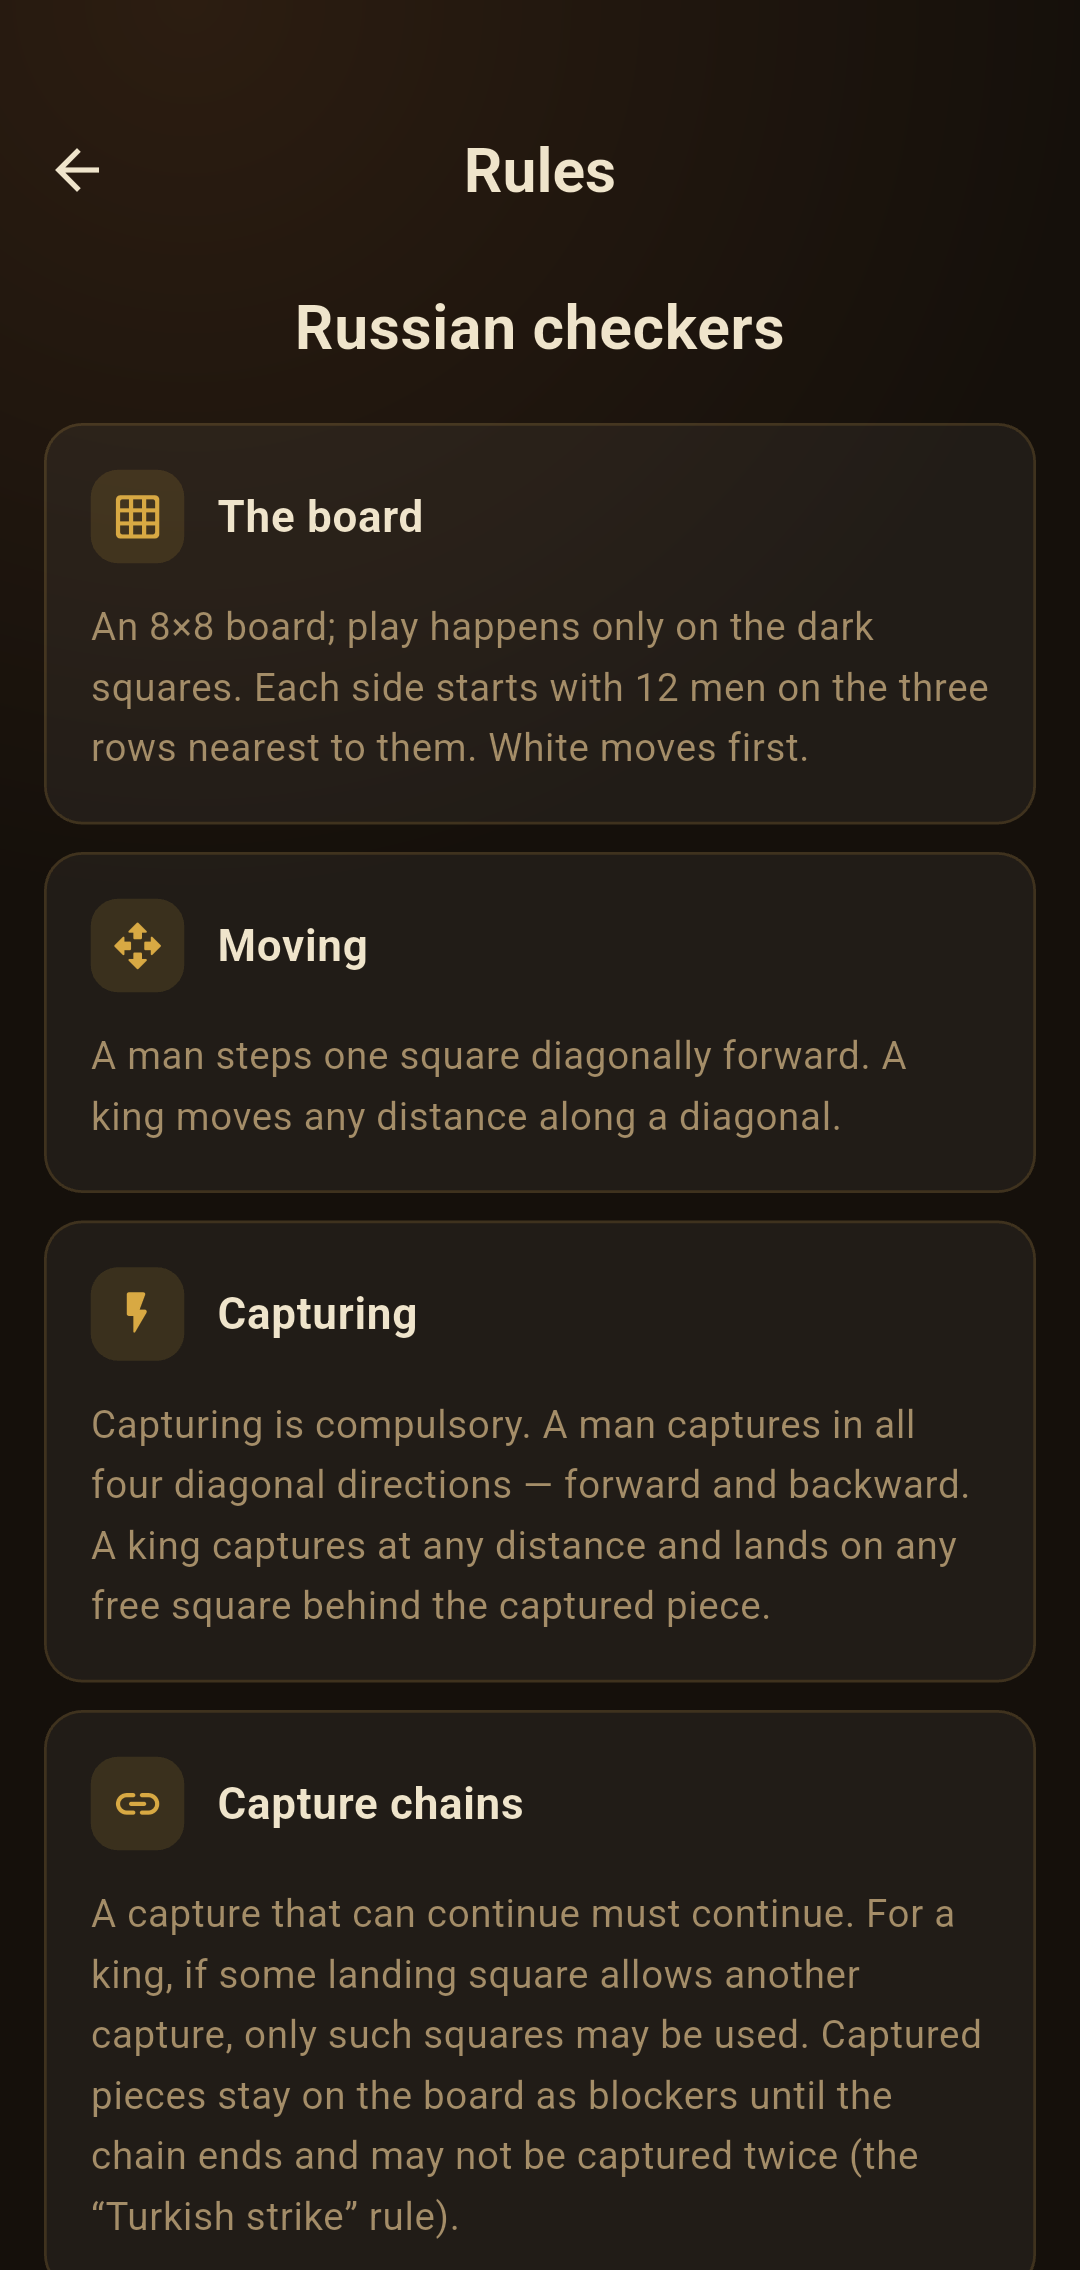
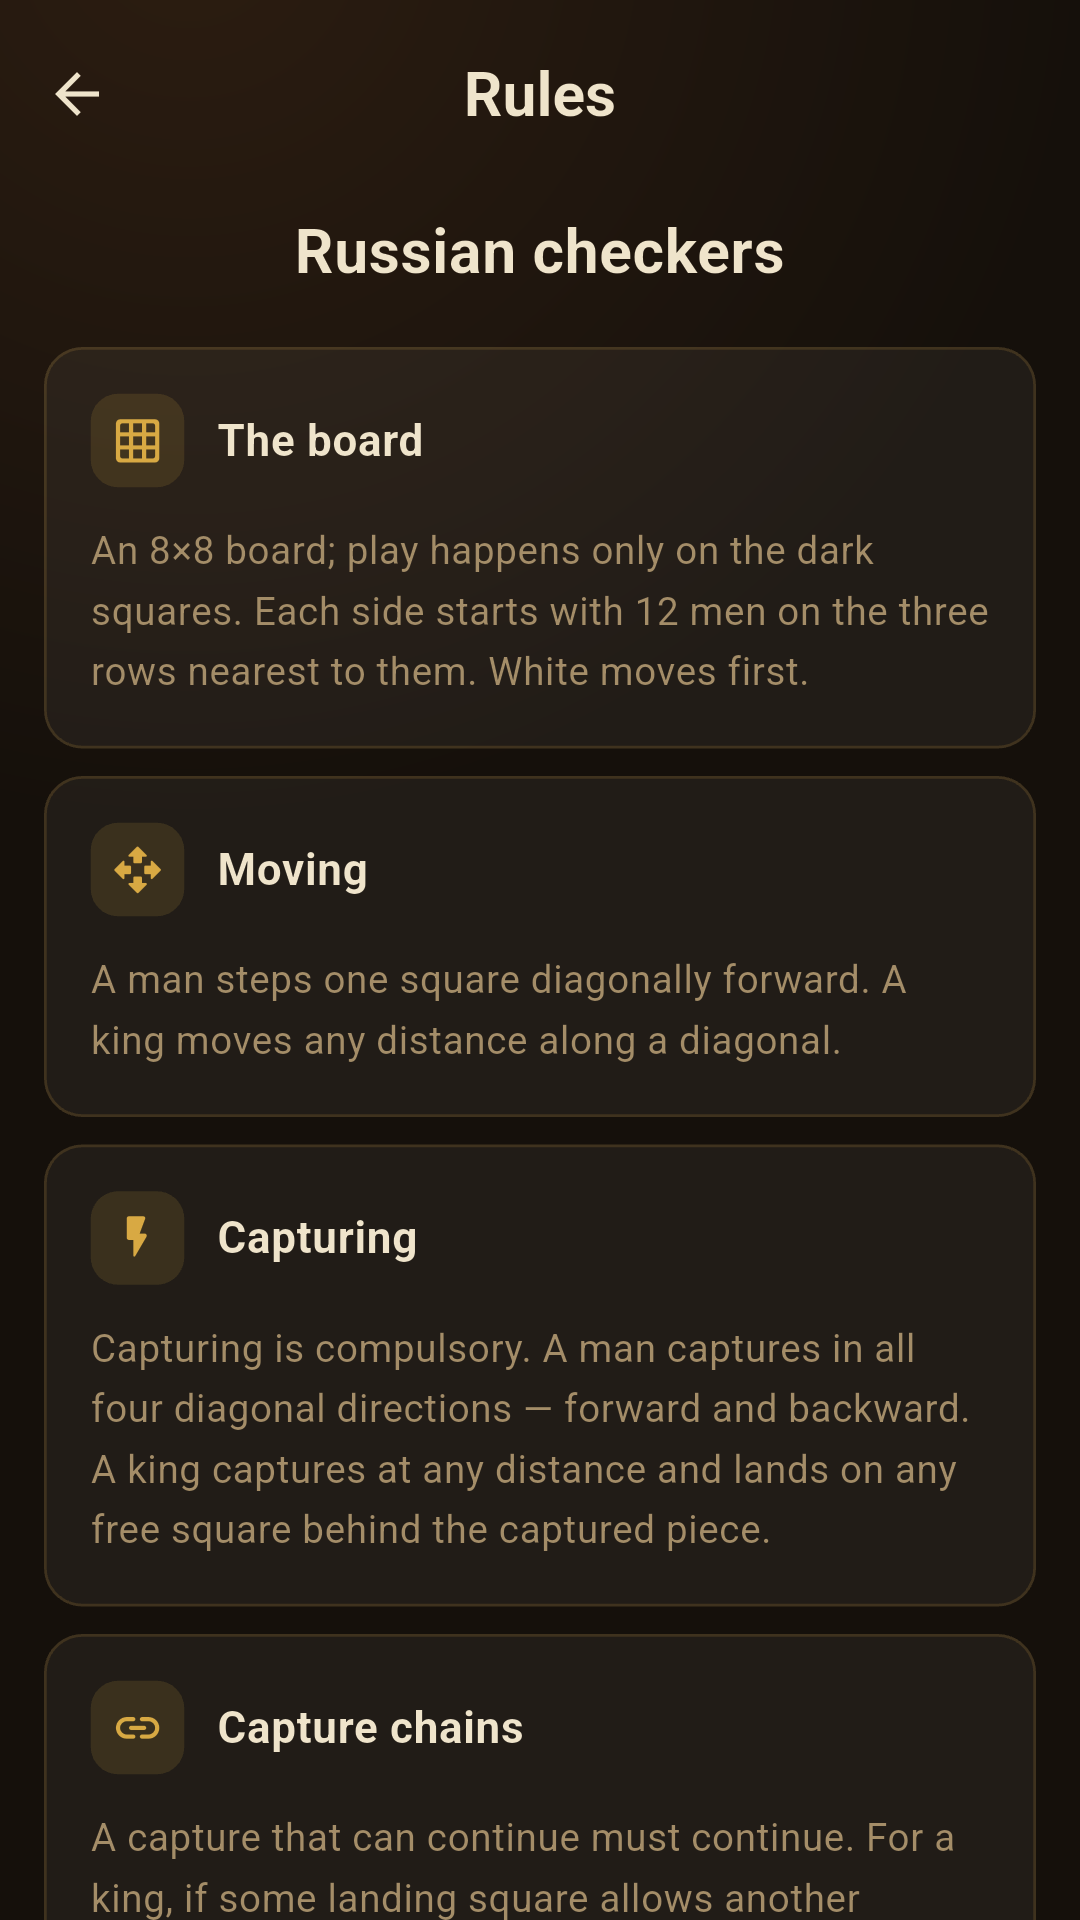
Skrinshotlar Play talab qiladigan 9:16 nisbatiga keltirildi
Google Play do'kon sahifasi uchun skrinshot nisbati 16:9 yoki 9:16
bo'lishini talab qiladi. `flutter drive` ularni qurilma ekrani
o'lchamida olgani uchun 1080x2270 chiqqan edi.

tool/crop_screenshots.py ortiqcha balandlikni kontentdan emas,
chetlardagi bo'sh joydan kesadi; bo'sh joy yetmaganda kesim chizig'ini
elementlar orasidagi eng kam kontrastli qatorga suradi. Natijada
barcha 24 skrinshot 1080x1920.

diff --git a/tool/crop_screenshots.py b/tool/crop_screenshots.py
@@ -1,0 +1,77 @@
+#!/usr/bin/env python3
+"""Skrinshotlarni Play talab qiladigan 9:16 nisbatiga keltirish.
+
+FAQAT ishlab chiqish vositasi. `flutter drive` skrinshotlarni qurilma
+ekrani o'lchamida oladi (masalan 1080x2270), Google Play esa do'kon
+sahifasi uchun qat'iy 16:9 yoki 9:16 talab qiladi.
+
+Skript ortiqcha balandlikni kontentdan emas, chetlardagi bo'sh joydan
+oladi; bo'sh joy yetmasa, kesim chizig'ini elementlar orasidagi eng
+kam kontrastli qatorga suradi.
+
+Ishlatish:
+    python3 tool/crop_screenshots.py
+"""
+
+from __future__ import annotations
+
+from pathlib import Path
+
+import numpy as np
+from PIL import Image
+
+ROOT = Path(__file__).resolve().parents[1]
+SHOTS = ROOT / "docs/play/graphics/screenshots"
+
+TARGET_H = 1920
+MIN_TOP = 40
+CONTENT_THRESHOLD = 6.0
+SNAP_RANGE = 45
+
+
+def crop_916(path: Path) -> Image.Image:
+    img = Image.open(path).convert("RGB")
+    rows = np.asarray(img.convert("L"), dtype=np.float32)
+    height = rows.shape[0]
+    need = height - TARGET_H
+    if need <= 0:
+        return img
+
+    contrast = rows.std(axis=1)
+    content = np.where(contrast > CONTENT_THRESHOLD)[0]
+    top_free = max(0, int(content[0]) - MIN_TOP)
+    bottom_free = height - 1 - int(content[-1])
+
+    spare = top_free + bottom_free - need
+    if spare >= 0:
+        cut_top = round(min(top_free, max(0, top_free - spare / 2)))
+        cut_bottom = need - cut_top
+        if cut_bottom > bottom_free:
+            cut_bottom = bottom_free
+            cut_top = need - cut_bottom
+    else:
+        cut_top = top_free
+        edge = height - (need - cut_top)
+        lo = max(0, edge - SNAP_RANGE)
+        hi = min(height - 1, edge + SNAP_RANGE)
+        edge = int(lo + np.argmin(contrast[lo:hi + 1]))
+        cut_bottom = height - edge
+        cut_top = need - cut_bottom
+        if not 0 <= cut_top <= top_free:
+            cut_top = top_free
+            cut_bottom = need - cut_top
+
+    return img.crop((0, cut_top, img.size[0], height - cut_bottom))
+
+
+def main() -> None:
+    for path in sorted(SHOTS.glob("*/*.png")):
+        out = crop_916(path)
+        if out.size != (1080, TARGET_H):
+            raise SystemExit(f"{path}: {out.size[0]}x{out.size[1]}")
+        out.save(path, optimize=True)
+        print(f"{path.relative_to(ROOT)}  {out.size[0]}x{out.size[1]}")
+
+
+if __name__ == "__main__":
+    main()

diff --git a/docs/play/README.md b/docs/play/README.md
@@ -106,13 +106,19 @@ Grafikalar:
 |---|---|---|
 | Ilova ikonkasi | `graphics/play_icon_512.png` | 512×512 PNG ✔ |
 | Feature graphic | `graphics/play_feature_1024x500.png` | 1024×500 PNG ✔ |
-| Telefon skrinshotlari | `graphics/screenshots/<til>/` | 1080×2270, 5 ta ✔ |
+| Telefon skrinshotlari | `graphics/screenshots/<til>/` | 1080×1920 (9:16), 6 ta ✔ |
 
 Skrinshotlar har til uchun alohida (`uz/`, `ru/`, `en/`) — Play Console'da
 mos tilga yuklang. Minimal 2 ta kerak, bizda 5 ta.
 
 Tavsiya etilgan tartib: `02-board-start`, `03-board-play`, `01-home`,
 `04-rules`, `05-about`.
+
+> Play skrinshot nisbati **16:9 yoki 9:16** bo'lishini talab qiladi.
+> `flutter drive` ularni qurilma ekrani o'lchamida oladi (masalan
+> 1080×2270), shuning uchun qayta yaratgandan keyin
+> `python3 tool/crop_screenshots.py` ni ishga tushiring — u ortiqcha
+> balandlikni chetlardagi bo'sh joydan kesib, 1080×1920 ga keltiradi.
 
 > Planshet skrinshotlari majburiy emas, lekin bo'lsa ilova planshetlarda
 > ham tavsiya ro'yxatlariga tushadi. Olish uchun planshet yoki emulyator
